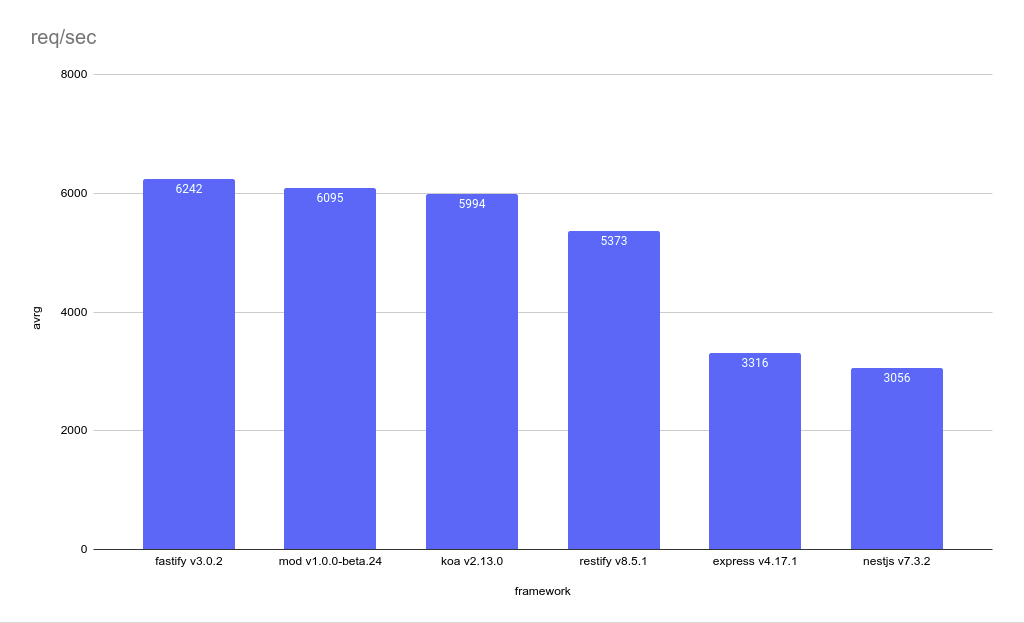
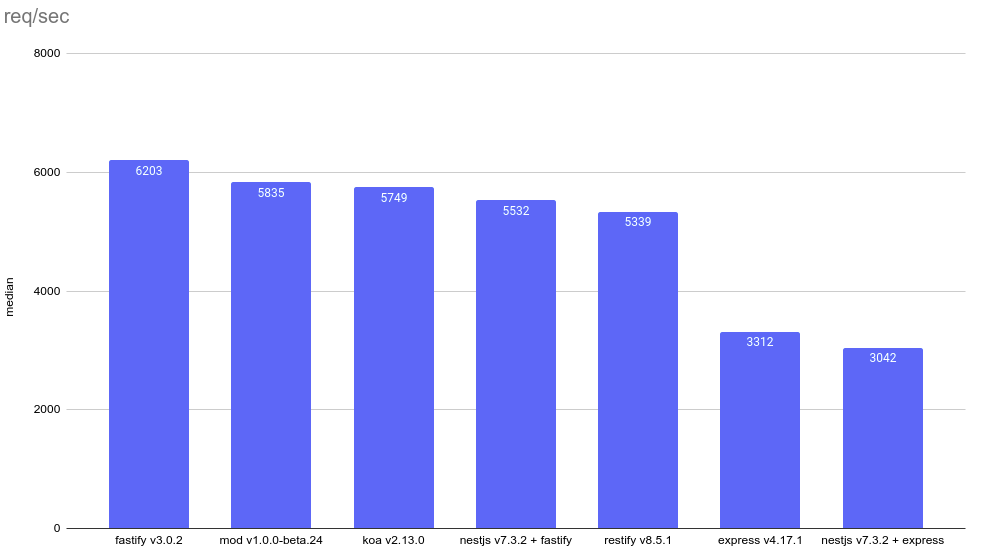
Added nestjs-fastify to the bench

diff --git a/nestjs/main-fastify.ts b/nestjs/main-fastify.ts
@@ -1,0 +1,15 @@
+import { NestFactory } from '@nestjs/core';
+import { FastifyAdapter, NestFastifyApplication,
+} from '@nestjs/platform-fastify';
+import { AppModule } from './app.module';
+
+async function bootstrap() {
+  const app = await NestFactory.create<NestFastifyApplication>(
+    AppModule,
+    new FastifyAdapter()
+  );
+  await app.listen(3005, () => {
+    console.log('Nestjs started on port 3005');
+  });
+}
+bootstrap();

diff --git a/ts-stack-mod/app/app.module.ts b/ts-stack-mod/app/app.module.ts
@@ -12,5 +12,5 @@ export class HelloWorldController {
 }
 
 
-@RootModule({ controllers: [HelloWorldController], listenOptions: {port: 3005} })
+@RootModule({ controllers: [HelloWorldController], listenOptions: {port: 3006} })
 export class AppModule {}
